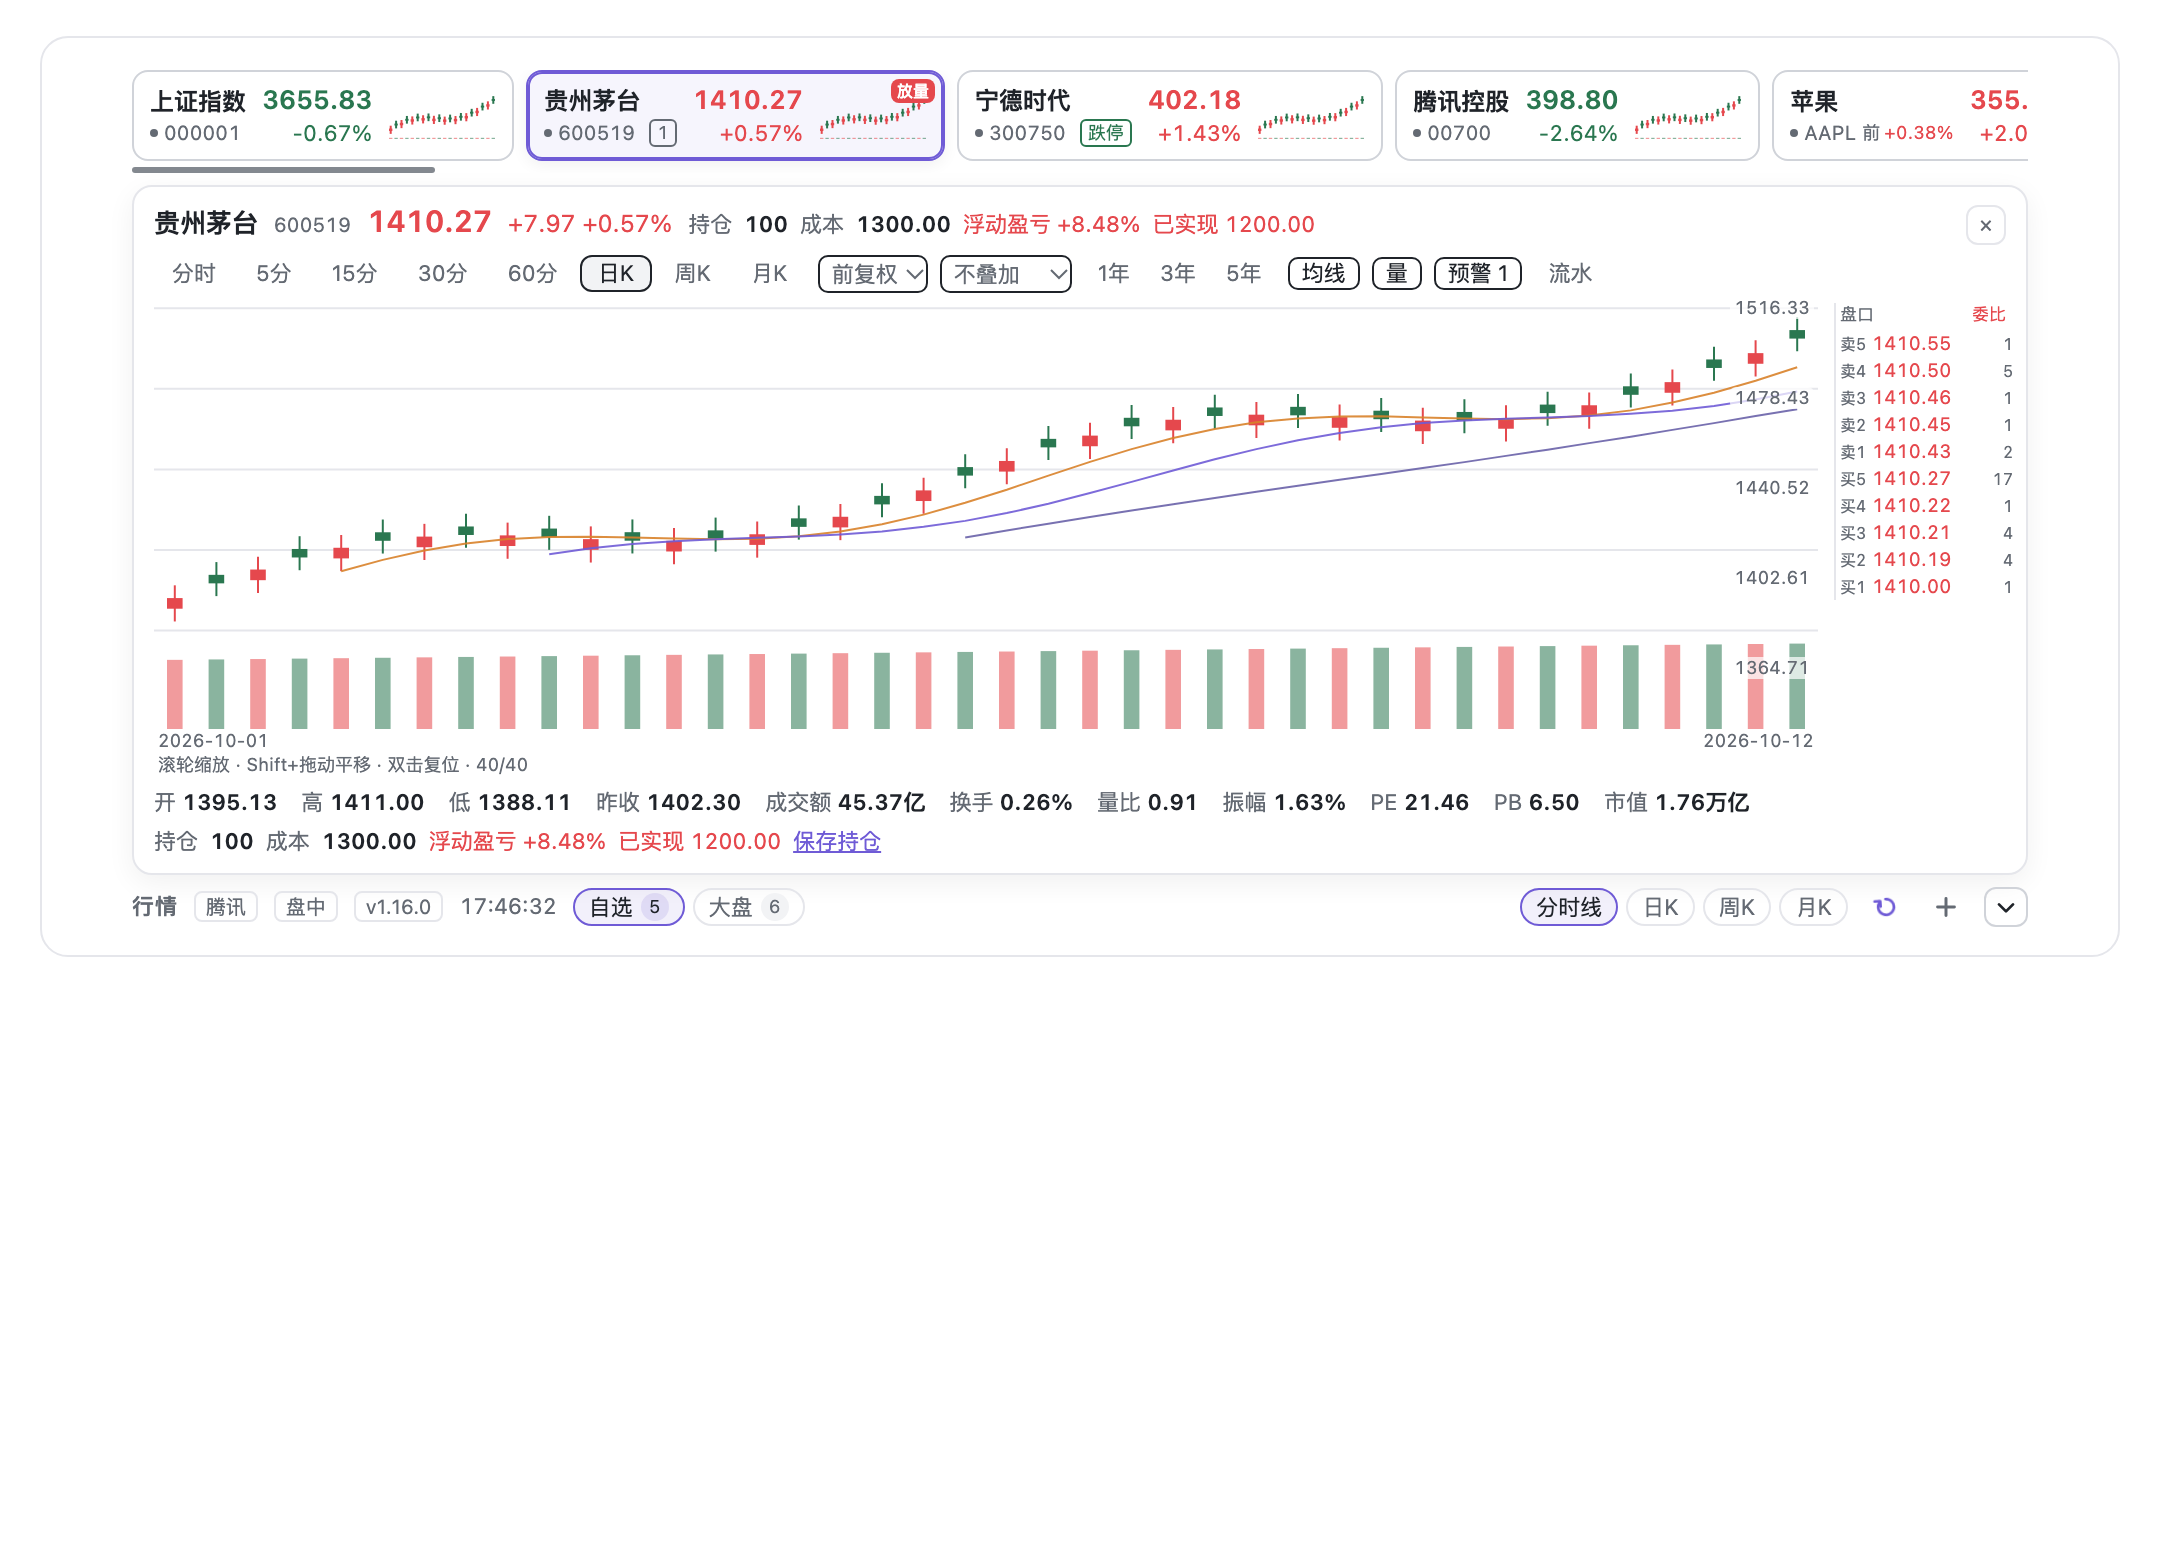
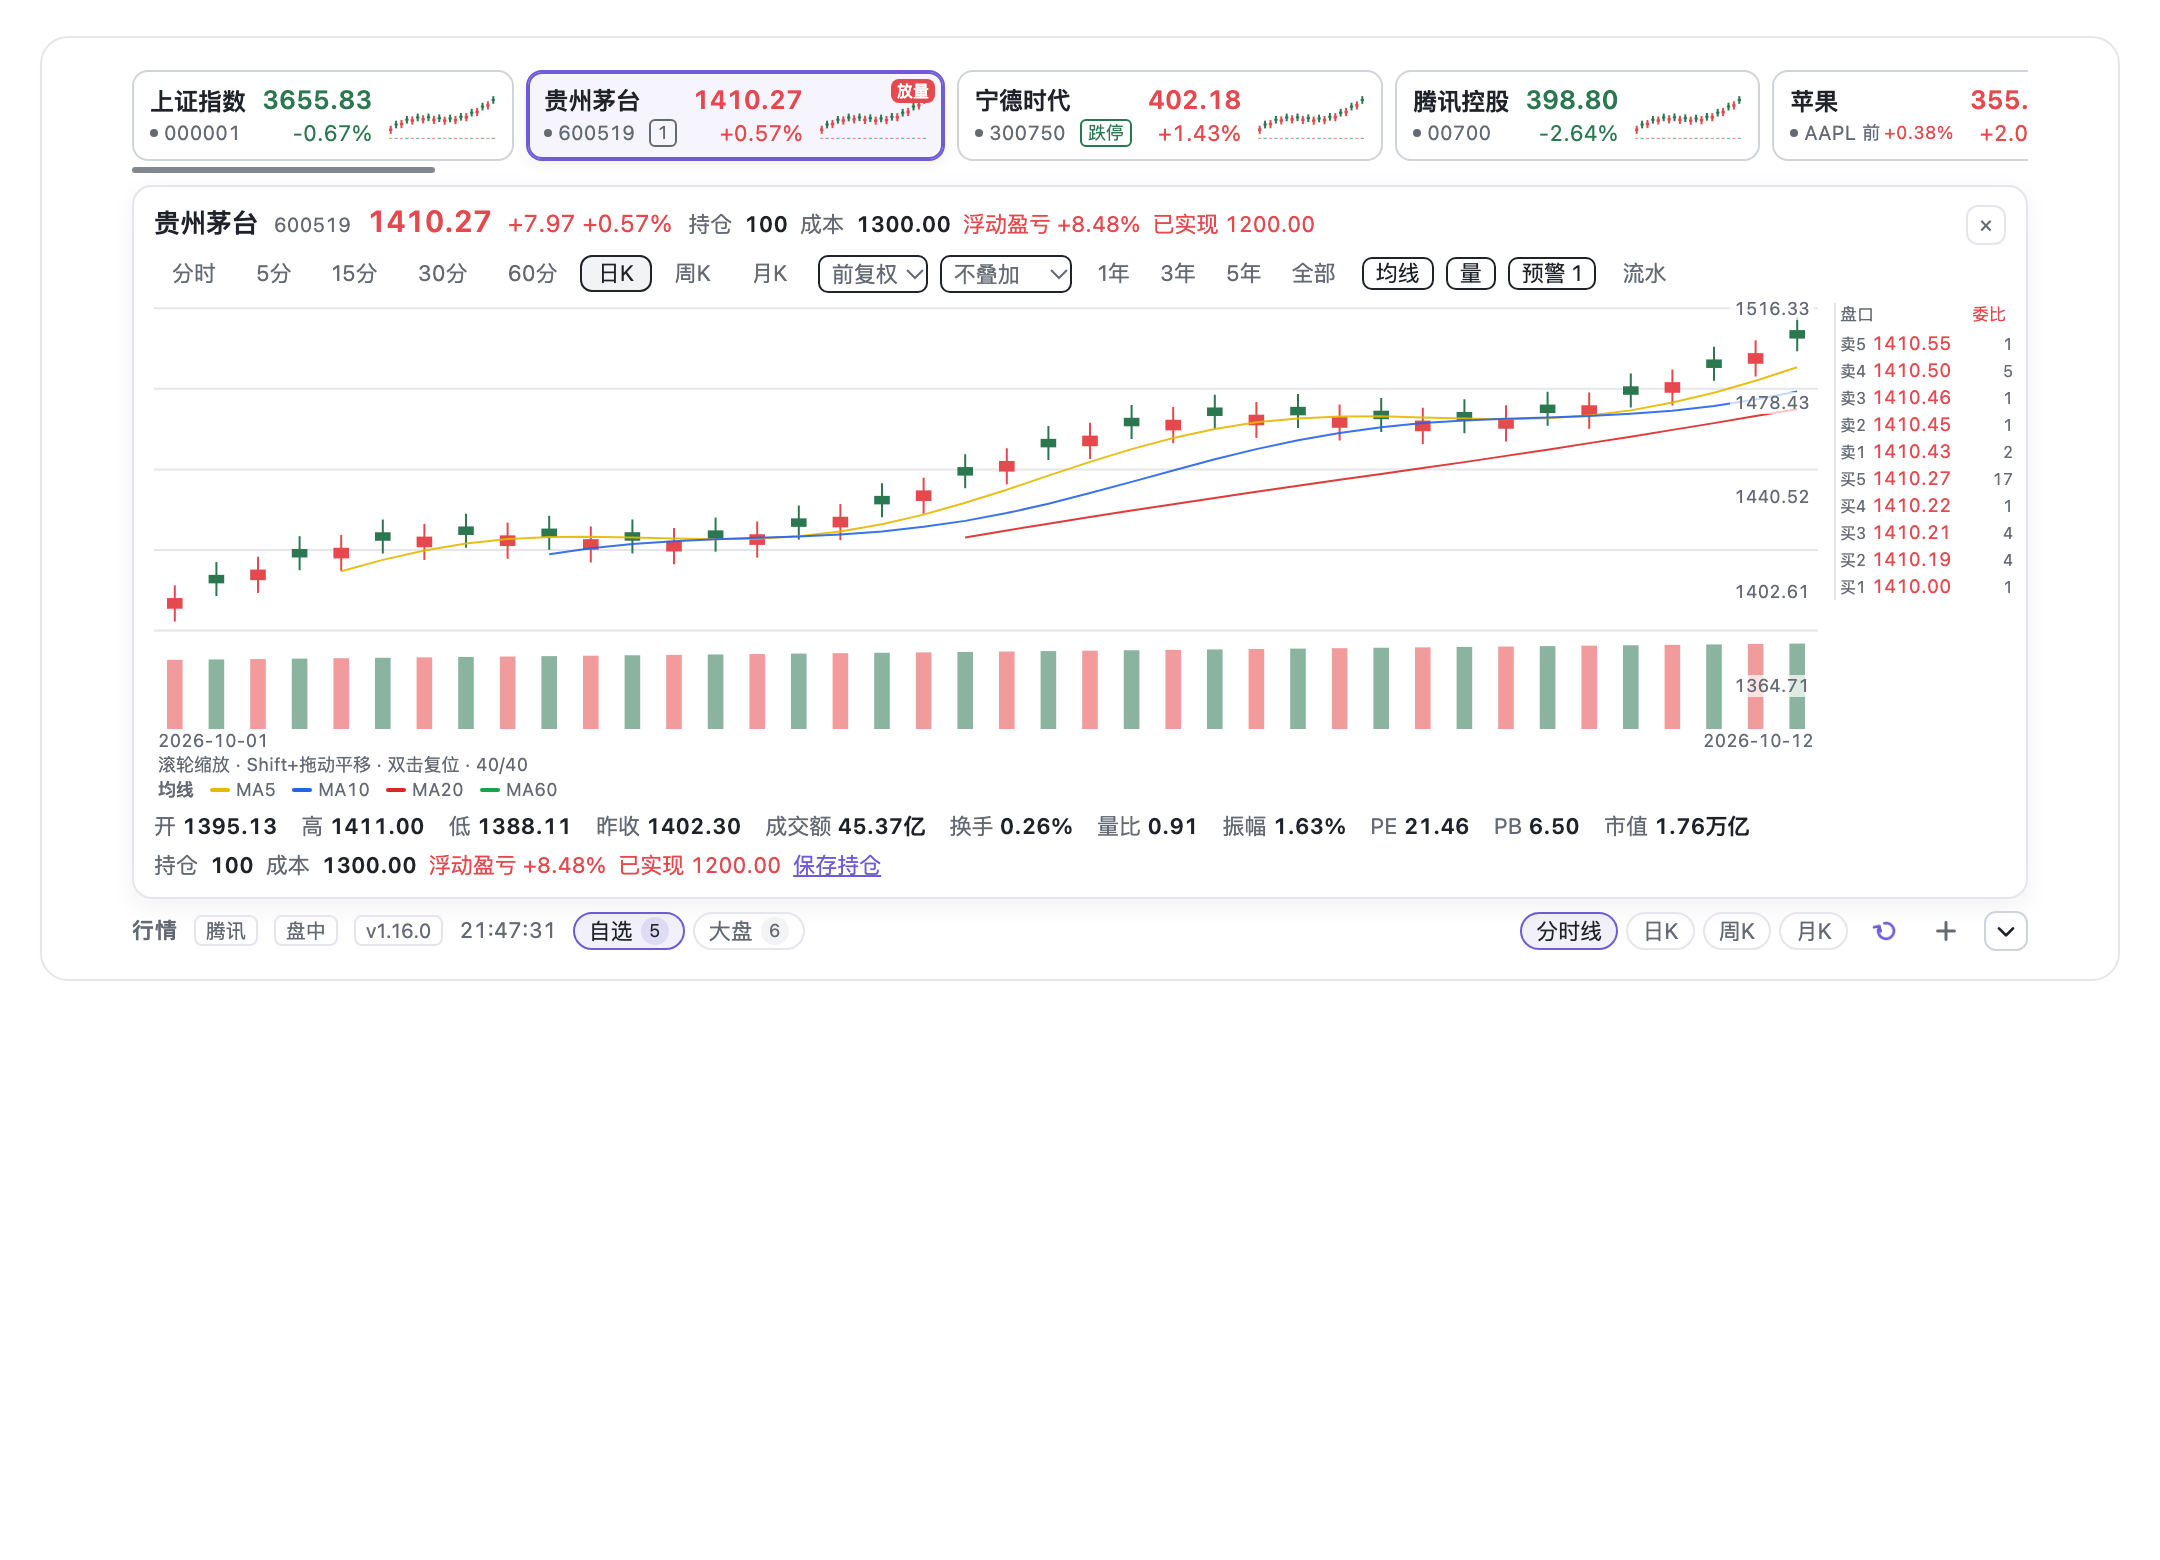
feat: add a high-contrast MA legend

diff --git a/client.js b/client.js
@@ -177,6 +177,7 @@ window.__ModuleLoader__.load({
       changePctLabel: '涨跌幅',
       compareNone: '不叠加',
       maPeriods: '均线周期',
+      maLegendTitle: '均线',
       showVolume: '显示成交量',
       alertToast: '预警弹提示',
       volumeAlert: '放量提醒（5分钟）',
@@ -376,6 +377,7 @@ window.__ModuleLoader__.load({
       changePctLabel: 'Change',
       compareNone: 'None',
       maPeriods: 'MA periods',
+      maLegendTitle: 'MA',
       showVolume: 'Show volume',
       alertToast: 'Toast on alert',
       volumeAlert: 'Volume alert (5m)',
@@ -694,6 +696,26 @@ window.__ModuleLoader__.load({
   gap: 8px;
   width: 100%;
   padding: 2px 0;
+}
+.dshst-maLegend {
+  display: flex;
+  align-items: center;
+  gap: 8px;
+  flex-wrap: wrap;
+  padding: 0 2px;
+  color: var(--dsw-alias-label-secondary);
+  font-size: 9px;
+  line-height: 12px;
+  font-variant-numeric: tabular-nums;
+}
+.dshst-maLegendTitle { font-weight: 600; }
+.dshst-maLegendItem { display: inline-flex; align-items: center; gap: 3px; }
+.dshst-maSwatch {
+  display: inline-block;
+  width: 10px;
+  height: 2px;
+  border-radius: 1px;
+  flex: 0 0 auto;
 }
 .dshst-historyTools {
   display: flex;
@@ -1714,14 +1736,7 @@ window.__ModuleLoader__.load({
     }
 
     const MA_WINDOWS = [5, 10, 20, 60]
-    const MA_COLORS = [
-      'var(--dsw-alias-state-warn-primary)',
-      'var(--dsw-alias-brand-primary)',
-      'color-mix(in srgb, var(--dsw-alias-brand-primary) 55%, var(--dsw-alias-label-secondary))',
-      'var(--dsw-alias-label-secondary)',
-      'var(--dsw-alias-state-error-primary)',
-      'var(--dsw-alias-state-success-primary)',
-    ]
+    const MA_COLORS = ['#e6b800', '#2563eb', '#dc2626', '#16a34a', '#9333ea', '#f97316']
     const maColorAt = (index) => MA_COLORS[index % MA_COLORS.length]
     const maPeriodsOf = (value) => {
       const list = (Array.isArray(value) ? value : String(value ?? '').split(/[,\s，]+/))
@@ -2439,6 +2454,7 @@ window.__ModuleLoader__.load({
         block
           ? h('div', { className: 'dshst-chartHint' }, `${t('chartZoomHint')} · ${rows.length}/${total}`)
           : null,
+        showMA ? h(MALegend, { periods: maPeriods, t }) : null,
         minutePeriod && volumeBaseline.size > 0 ? h(VolumeLegend, { t }) : null,
         selectedRange
           ? h(RangeSummary, {
@@ -2692,7 +2708,7 @@ window.__ModuleLoader__.load({
       })
       const ghostData = rows.map((row) => baseline.get(String(row.date)) ?? null)
       const baselineData = rows.map((row) => baseline.get(String(row.date)) ?? null)
-      const palette = [theme.warn, theme.brand, theme.gold, theme.muted, theme.error, theme.success]
+      const palette = MA_COLORS
       const maSeries = showMA === false ? [] : (maPeriodsOf(maPeriods)).map((window, order) => ({
         type: 'line',
         name: `MA${window}`,
@@ -3147,6 +3163,7 @@ window.__ModuleLoader__.load({
           { className: 'dshst-chartHint' },
           `${t('echartsHint')} · ${rows.length}${props.compareRows ? ` · ${t('compare')} ${props.compareLabel}` : ''}`,
         ),
+        props.showMA !== false ? h(MALegend, { periods: maPeriodsOf(props.maPeriods), t }) : null,
         selected && high && low
           ? h(RangeSummary, {
               t,
@@ -3485,6 +3502,25 @@ window.__ModuleLoader__.load({
      * Intraday line: price, running average, previous close, cost line and one
      * separator per trading day when several days are overlaid.
      */
+    function MALegend(props) {
+      const t = props.t ?? ((key) => key)
+      const periods = Array.isArray(props.periods) ? props.periods : []
+      if (periods.length === 0) return null
+      return h(
+        'div',
+        { className: 'dshst-maLegend' },
+        h('span', { className: 'dshst-maLegendTitle' }, t('maLegendTitle')),
+        ...periods.map((period, index) =>
+          h(
+            'span',
+            { className: 'dshst-maLegendItem', key: `ma${period}` },
+            h('i', { className: 'dshst-maSwatch', style: { background: maColorAt(index) }, 'aria-hidden': true }),
+            `MA${period}`,
+          ),
+        ),
+      )
+    }
+
     function TrendChart(props) {
       const rawPoints = Array.isArray(props.points) ? props.points : []
       // Defensive against old disk-cache pages written before the STAR Market
